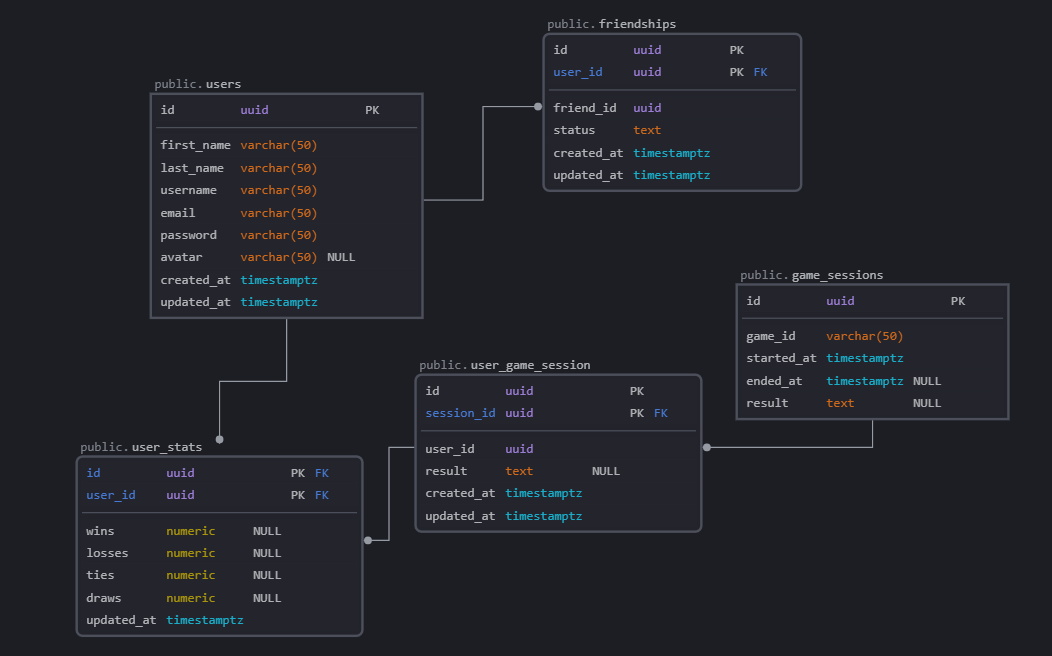
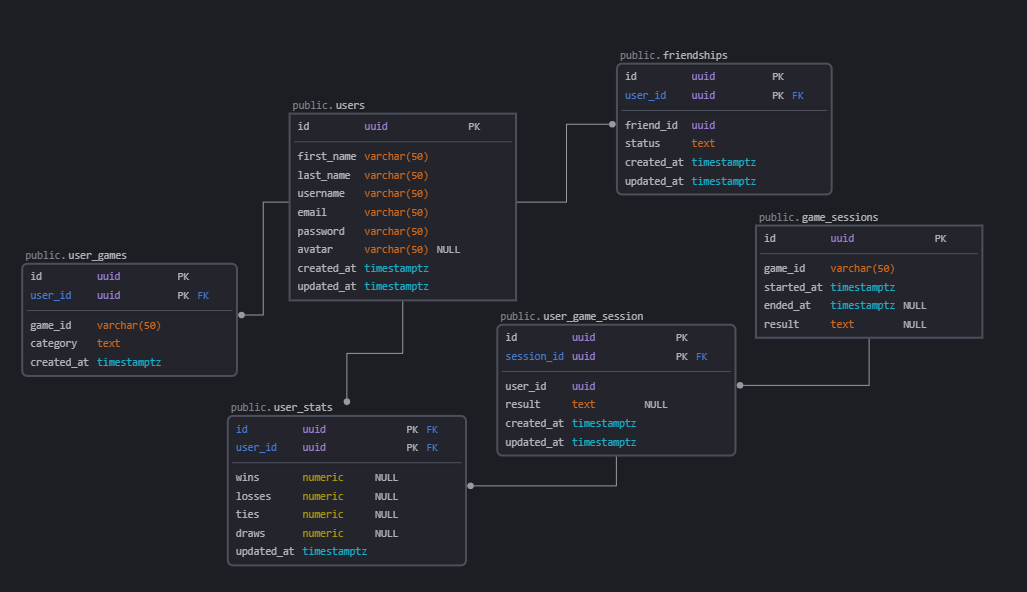
added user_games table + updated ERD

diff --git a/server/db/migrations/20250608001702_add_games_table.ts b/server/db/migrations/20250608001702_add_games_table.ts
@@ -1,0 +1,16 @@
+import { Knex } from 'knex';
+
+export async function up(knex: Knex): Promise<void> {
+  await knex.schema.createTable('user_games', (table) => {
+    table.uuid('id').primary();
+    table.uuid('user_id').notNullable().references('id').inTable('users').onDelete('CASCADE');
+    table.string('game_id').notNullable(); // BGG game id or similar
+    table.enum('category', ['wishlist', 'collection']).notNullable();
+    table.timestamp('created_at').defaultTo(knex.fn.now());
+    table.unique(['user_id', 'game_id', 'category']); // prevent duplicate wishlist/collection entries
+  });
+}
+
+export async function down(knex: Knex): Promise<void> {
+  await knex.schema.dropTableIfExists('user_games');
+}
